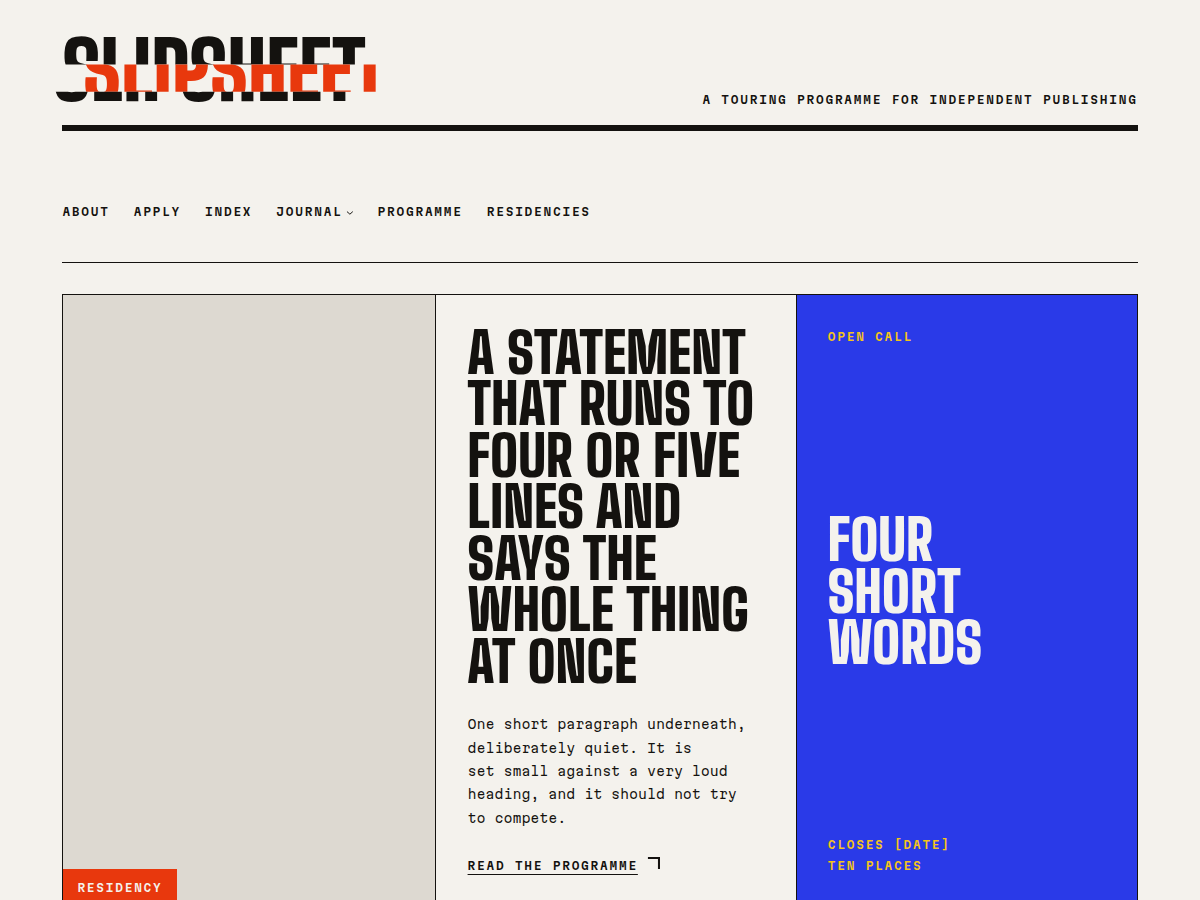
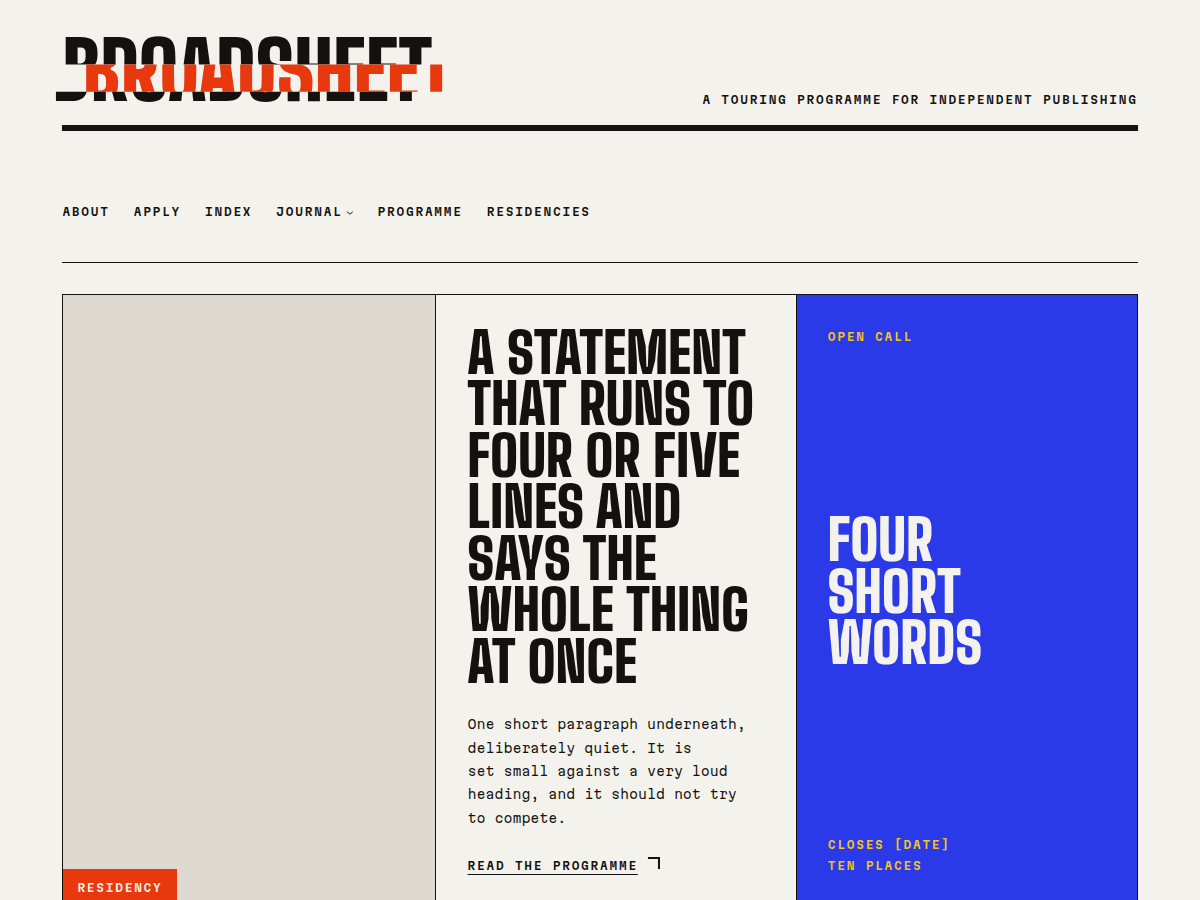
Rename Slipsheet to Broadsheet
Claude-Session: https://claude.ai/code/session_01FFBzXXBaRjks7ShpXQ5NKq

Changed region(s): [[0.0617, 0.0311, 0.37, 0.1244]]

diff --git a/style.css b/style.css
@@ -1,6 +1,6 @@
 /*
-Theme Name: Slipsheet
-Theme URI: https://example.com/slipsheet
+Theme Name: Broadsheet
+Theme URI: https://example.com/broadsheet
 Author: Bain Design
 Author URI: https://bain.design
 Description: A poster-on-a-wall block theme. Flat ink on paper, a visible hairline grid, and three signature moves: the slip, the bracket, and one ink per band. Built to the CSS foundation spec in bain-theme-factory.
@@ -10,7 +10,7 @@ Requires PHP: 7.4
 Version: 0.1.0
 License: GNU General Public License v2 or later
 License URI: http://www.gnu.org/licenses/gpl-2.0.html
-Text Domain: slipsheet
+Text Domain: broadsheet
 Domain Path: /languages
 Tags: block-theme, full-site-editing, editorial, one-column, wide-blocks
 */
@@ -66,10 +66,10 @@ Tags: block-theme, full-site-editing, editorial, one-column, wide-blocks
 
    Markup (see the wordmark pattern):
      <span class="s-slip u-disp">
-       <span class="s-slip__sizer">Slipsheet</span>
-       <span class="s-slip__a">Slipsheet</span>
-       <span class="s-slip__b">Slipsheet</span>
-       <span class="s-slip__c">Slipsheet</span>
+       <span class="s-slip__sizer">Broadsheet</span>
+       <span class="s-slip__a">Broadsheet</span>
+       <span class="s-slip__b">Broadsheet</span>
+       <span class="s-slip__c">Broadsheet</span>
      </span>
 
    Below about 22px the three strips merge and the word stops reading. Use

diff --git a/templates/front-page.html b/templates/front-page.html
@@ -3,15 +3,15 @@
 <!-- wp:group {"tagName":"main","layout":{"type":"constrained"}} -->
 <main class="wp-block-group">
 
-	<!-- wp:pattern {"slug":"slipsheet/hero"} /-->
+	<!-- wp:pattern {"slug":"broadsheet/hero"} /-->
 
-	<!-- wp:pattern {"slug":"slipsheet/band"} /-->
+	<!-- wp:pattern {"slug":"broadsheet/band"} /-->
 
-	<!-- wp:pattern {"slug":"slipsheet/section-rows"} /-->
+	<!-- wp:pattern {"slug":"broadsheet/section-rows"} /-->
 
-	<!-- wp:pattern {"slug":"slipsheet/pause"} /-->
+	<!-- wp:pattern {"slug":"broadsheet/pause"} /-->
 
-	<!-- wp:pattern {"slug":"slipsheet/news"} /-->
+	<!-- wp:pattern {"slug":"broadsheet/news"} /-->
 
 </main>
 <!-- /wp:group -->

diff --git a/templates/404.html b/templates/404.html
@@ -5,11 +5,11 @@
 
 	<!-- wp:group {"style":{"spacing":{"padding":{"top":"var:preset|spacing|60","bottom":"var:preset|spacing|50"}}},"layout":{"type":"constrained"}} -->
 	<div class="wp-block-group" style="padding-top:var(--wp--preset--spacing--60);padding-bottom:var(--wp--preset--spacing--50)">
-		<!-- wp:pattern {"slug":"slipsheet/not-found"} /-->
+		<!-- wp:pattern {"slug":"broadsheet/not-found"} /-->
 	</div>
 	<!-- /wp:group -->
 
-	<!-- wp:pattern {"slug":"slipsheet/band"} /-->
+	<!-- wp:pattern {"slug":"broadsheet/band"} /-->
 
 </main>
 <!-- /wp:group -->

diff --git a/templates/archive.html b/templates/archive.html
@@ -24,12 +24,12 @@
 		<!-- /wp:query-pagination -->
 
 		<!-- wp:query-no-results -->
-			<!-- wp:pattern {"slug":"slipsheet/no-results"} /-->
+			<!-- wp:pattern {"slug":"broadsheet/no-results"} /-->
 		<!-- /wp:query-no-results -->
 	</div>
 	<!-- /wp:query -->
 
-	<!-- wp:pattern {"slug":"slipsheet/pause"} /-->
+	<!-- wp:pattern {"slug":"broadsheet/pause"} /-->
 
 </main>
 <!-- /wp:group -->

diff --git a/templates/home.html b/templates/home.html
@@ -24,12 +24,12 @@
 		<!-- /wp:query-pagination -->
 
 		<!-- wp:query-no-results -->
-			<!-- wp:pattern {"slug":"slipsheet/no-results"} /-->
+			<!-- wp:pattern {"slug":"broadsheet/no-results"} /-->
 		<!-- /wp:query-no-results -->
 	</div>
 	<!-- /wp:query -->
 
-	<!-- wp:pattern {"slug":"slipsheet/pause"} /-->
+	<!-- wp:pattern {"slug":"broadsheet/pause"} /-->
 
 </main>
 <!-- /wp:group -->

diff --git a/templates/index.html b/templates/index.html
@@ -24,12 +24,12 @@
 		<!-- /wp:query-pagination -->
 
 		<!-- wp:query-no-results -->
-			<!-- wp:pattern {"slug":"slipsheet/no-results"} /-->
+			<!-- wp:pattern {"slug":"broadsheet/no-results"} /-->
 		<!-- /wp:query-no-results -->
 	</div>
 	<!-- /wp:query -->
 
-	<!-- wp:pattern {"slug":"slipsheet/pause"} /-->
+	<!-- wp:pattern {"slug":"broadsheet/pause"} /-->
 
 </main>
 <!-- /wp:group -->

diff --git a/templates/search.html b/templates/search.html
@@ -24,12 +24,12 @@
 		<!-- /wp:query-pagination -->
 
 		<!-- wp:query-no-results -->
-			<!-- wp:pattern {"slug":"slipsheet/no-results"} /-->
+			<!-- wp:pattern {"slug":"broadsheet/no-results"} /-->
 		<!-- /wp:query-no-results -->
 	</div>
 	<!-- /wp:query -->
 
-	<!-- wp:pattern {"slug":"slipsheet/pause"} /-->
+	<!-- wp:pattern {"slug":"broadsheet/pause"} /-->
 
 </main>
 <!-- /wp:group -->

diff --git a/assets/css/foundation.css b/assets/css/foundation.css
@@ -1,5 +1,5 @@
 /* ==========================================================================
-   Slipsheet - foundation
+   Broadsheet - foundation
    Reset, base and layout. Layered.
    Tokens are NOT defined here: theme.json is the single source of truth and
    emits them as --wp--preset--* / --wp--custom--*. This file only aliases

diff --git a/templates/single.html b/templates/single.html
@@ -31,7 +31,7 @@
 	</div>
 	<!-- /wp:group -->
 
-	<!-- wp:pattern {"slug":"slipsheet/pause"} /-->
+	<!-- wp:pattern {"slug":"broadsheet/pause"} /-->
 
 </main>
 <!-- /wp:group -->

diff --git a/parts/footer.html b/parts/footer.html
@@ -1,1 +1,1 @@
-<!-- wp:pattern {"slug":"slipsheet/footer"} /-->
+<!-- wp:pattern {"slug":"broadsheet/footer"} /-->

diff --git a/parts/header.html b/parts/header.html
@@ -1,1 +1,1 @@
-<!-- wp:pattern {"slug":"slipsheet/header"} /-->
+<!-- wp:pattern {"slug":"broadsheet/header"} /-->

diff --git a/functions.php b/functions.php
@@ -1,18 +1,18 @@
 <?php
 /**
- * Slipsheet functions and definitions.
+ * Broadsheet functions and definitions.
  *
  * @link https://developer.wordpress.org/themes/basics/theme-functions/
  *
- * @package Slipsheet
- * @since Slipsheet 0.1.0
+ * @package Broadsheet
+ * @since Broadsheet 0.1.0
  */
 
 if ( ! defined( 'ABSPATH' ) ) {
 	exit;
 }
 
-if ( ! function_exists( 'slipsheet_enqueue_styles' ) ) :
+if ( ! function_exists( 'broadsheet_enqueue_styles' ) ) :
 	/**
 	 * Enqueues the theme stylesheets on the front.
 	 *
@@ -24,50 +24,50 @@ if ( ! function_exists( 'slipsheet_enqueue_styles' ) ) :
 	 * load order: reset / base / layout (layered) first, components (unlayered)
 	 * second. See README.md, "The layer contract".
 	 *
-	 * @since Slipsheet 0.1.0
+	 * @since Broadsheet 0.1.0
 	 *
 	 * @return void
 	 */
-	function slipsheet_enqueue_styles() {
+	function broadsheet_enqueue_styles() {
 		$version = wp_get_theme()->get( 'Version' );
 
 		wp_enqueue_style(
-			'slipsheet-foundation',
+			'broadsheet-foundation',
 			get_parent_theme_file_uri( 'assets/css/foundation.css' ),
 			array(),
 			$version
 		);
 		wp_style_add_data(
-			'slipsheet-foundation',
+			'broadsheet-foundation',
 			'path',
 			get_parent_theme_file_path( 'assets/css/foundation.css' )
 		);
 
 		wp_enqueue_style(
-			'slipsheet-style',
+			'broadsheet-style',
 			get_parent_theme_file_uri( 'style.css' ),
-			array( 'slipsheet-foundation' ),
+			array( 'broadsheet-foundation' ),
 			$version
 		);
 		wp_style_add_data(
-			'slipsheet-style',
+			'broadsheet-style',
 			'path',
 			get_parent_theme_file_path( 'style.css' )
 		);
 	}
 endif;
-add_action( 'wp_enqueue_scripts', 'slipsheet_enqueue_styles' );
+add_action( 'wp_enqueue_scripts', 'broadsheet_enqueue_styles' );
 
-if ( ! function_exists( 'slipsheet_editor_style' ) ) :
+if ( ! function_exists( 'broadsheet_editor_style' ) ) :
 	/**
 	 * Enqueues the same two stylesheets in the editors, so what an editor sees
 	 * matches the front end.
 	 *
-	 * @since Slipsheet 0.1.0
+	 * @since Broadsheet 0.1.0
 	 *
 	 * @return void
 	 */
-	function slipsheet_editor_style() {
+	function broadsheet_editor_style() {
 		add_editor_style(
 			array(
 				'assets/css/foundation.css',
@@ -76,37 +76,37 @@ if ( ! function_exists( 'slipsheet_editor_style' ) ) :
 		);
 	}
 endif;
-add_action( 'after_setup_theme', 'slipsheet_editor_style' );
+add_action( 'after_setup_theme', 'broadsheet_editor_style' );
 
-if ( ! function_exists( 'slipsheet_pattern_categories' ) ) :
+if ( ! function_exists( 'broadsheet_pattern_categories' ) ) :
 	/**
 	 * Registers pattern categories.
 	 *
-	 * @since Slipsheet 0.1.0
+	 * @since Broadsheet 0.1.0
 	 *
 	 * @return void
 	 */
-	function slipsheet_pattern_categories() {
+	function broadsheet_pattern_categories() {
 		register_block_pattern_category(
-			'slipsheet_section',
+			'broadsheet_section',
 			array(
-				'label'       => __( 'Slipsheet sections', 'slipsheet' ),
-				'description' => __( 'Bands, hairline grids, ledgers and pauses.', 'slipsheet' ),
+				'label'       => __( 'Broadsheet sections', 'broadsheet' ),
+				'description' => __( 'Bands, hairline grids, ledgers and pauses.', 'broadsheet' ),
 			)
 		);
 
 		register_block_pattern_category(
-			'slipsheet_part',
+			'broadsheet_part',
 			array(
-				'label'       => __( 'Slipsheet parts', 'slipsheet' ),
-				'description' => __( 'Small pieces: the wordmark, a bracket link, a photograph plate.', 'slipsheet' ),
+				'label'       => __( 'Broadsheet parts', 'broadsheet' ),
+				'description' => __( 'Small pieces: the wordmark, a bracket link, a photograph plate.', 'broadsheet' ),
 			)
 		);
 	}
 endif;
-add_action( 'init', 'slipsheet_pattern_categories' );
+add_action( 'init', 'broadsheet_pattern_categories' );
 
-if ( ! function_exists( 'slipsheet_remove_core_patterns' ) ) :
+if ( ! function_exists( 'broadsheet_remove_core_patterns' ) ) :
 	/**
 	 * Hides the bundled core patterns.
 	 *
@@ -114,17 +114,17 @@ if ( ! function_exists( 'slipsheet_remove_core_patterns' ) ) :
 	 * in rounded cards, gradients and shadows the design does not have. Comment
 	 * out the add_action below if a site needs them.
 	 *
-	 * @since Slipsheet 0.1.0
+	 * @since Broadsheet 0.1.0
 	 *
 	 * @return void
 	 */
-	function slipsheet_remove_core_patterns() {
+	function broadsheet_remove_core_patterns() {
 		remove_theme_support( 'core-block-patterns' );
 	}
 endif;
-add_action( 'after_setup_theme', 'slipsheet_remove_core_patterns' );
+add_action( 'after_setup_theme', 'broadsheet_remove_core_patterns' );
 
-if ( ! function_exists( 'slipsheet_block_styles' ) ) :
+if ( ! function_exists( 'broadsheet_block_styles' ) ) :
 	/**
 	 * Registers custom block styles.
 	 *
@@ -132,15 +132,15 @@ if ( ! function_exists( 'slipsheet_block_styles' ) ) :
 	 * CSS. The rationing rule is one loud ink per band, so they are mutually
 	 * exclusive by design: pick one per section.
 	 *
-	 * @since Slipsheet 0.1.0
+	 * @since Broadsheet 0.1.0
 	 *
 	 * @return void
 	 */
-	function slipsheet_block_styles() {
+	function broadsheet_block_styles() {
 		$inks = array(
-			'ink-red'   => __( 'Ink: red', 'slipsheet' ),
-			'ink-blue'  => __( 'Ink: blue', 'slipsheet' ),
-			'ink-black' => __( 'Ink: black', 'slipsheet' ),
+			'ink-red'   => __( 'Ink: red', 'broadsheet' ),
+			'ink-blue'  => __( 'Ink: blue', 'broadsheet' ),
+			'ink-black' => __( 'Ink: black', 'broadsheet' ),
 		);
 
 		foreach ( array( 'core/group', 'core/columns' ) as $block ) {
@@ -160,14 +160,14 @@ if ( ! function_exists( 'slipsheet_block_styles' ) ) :
 			'core/separator',
 			array(
 				'name'  => 'bar',
-				'label' => __( 'Bar', 'slipsheet' ),
+				'label' => __( 'Bar', 'broadsheet' ),
 			)
 		);
 		register_block_style(
 			'core/separator',
 			array(
 				'name'  => 'hairline',
-				'label' => __( 'Hairline', 'slipsheet' ),
+				'label' => __( 'Hairline', 'broadsheet' ),
 			)
 		);
 
@@ -176,7 +176,7 @@ if ( ! function_exists( 'slipsheet_block_styles' ) ) :
 			'core/list',
 			array(
 				'name'         => 'ruled-list',
-				'label'        => __( 'Ruled', 'slipsheet' ),
+				'label'        => __( 'Ruled', 'broadsheet' ),
 				'inline_style' => '
 				ul.is-style-ruled-list {
 					list-style: none;
@@ -192,4 +192,4 @@ if ( ! function_exists( 'slipsheet_block_styles' ) ) :
 		);
 	}
 endif;
-add_action( 'init', 'slipsheet_block_styles' );
+add_action( 'init', 'broadsheet_block_styles' );
